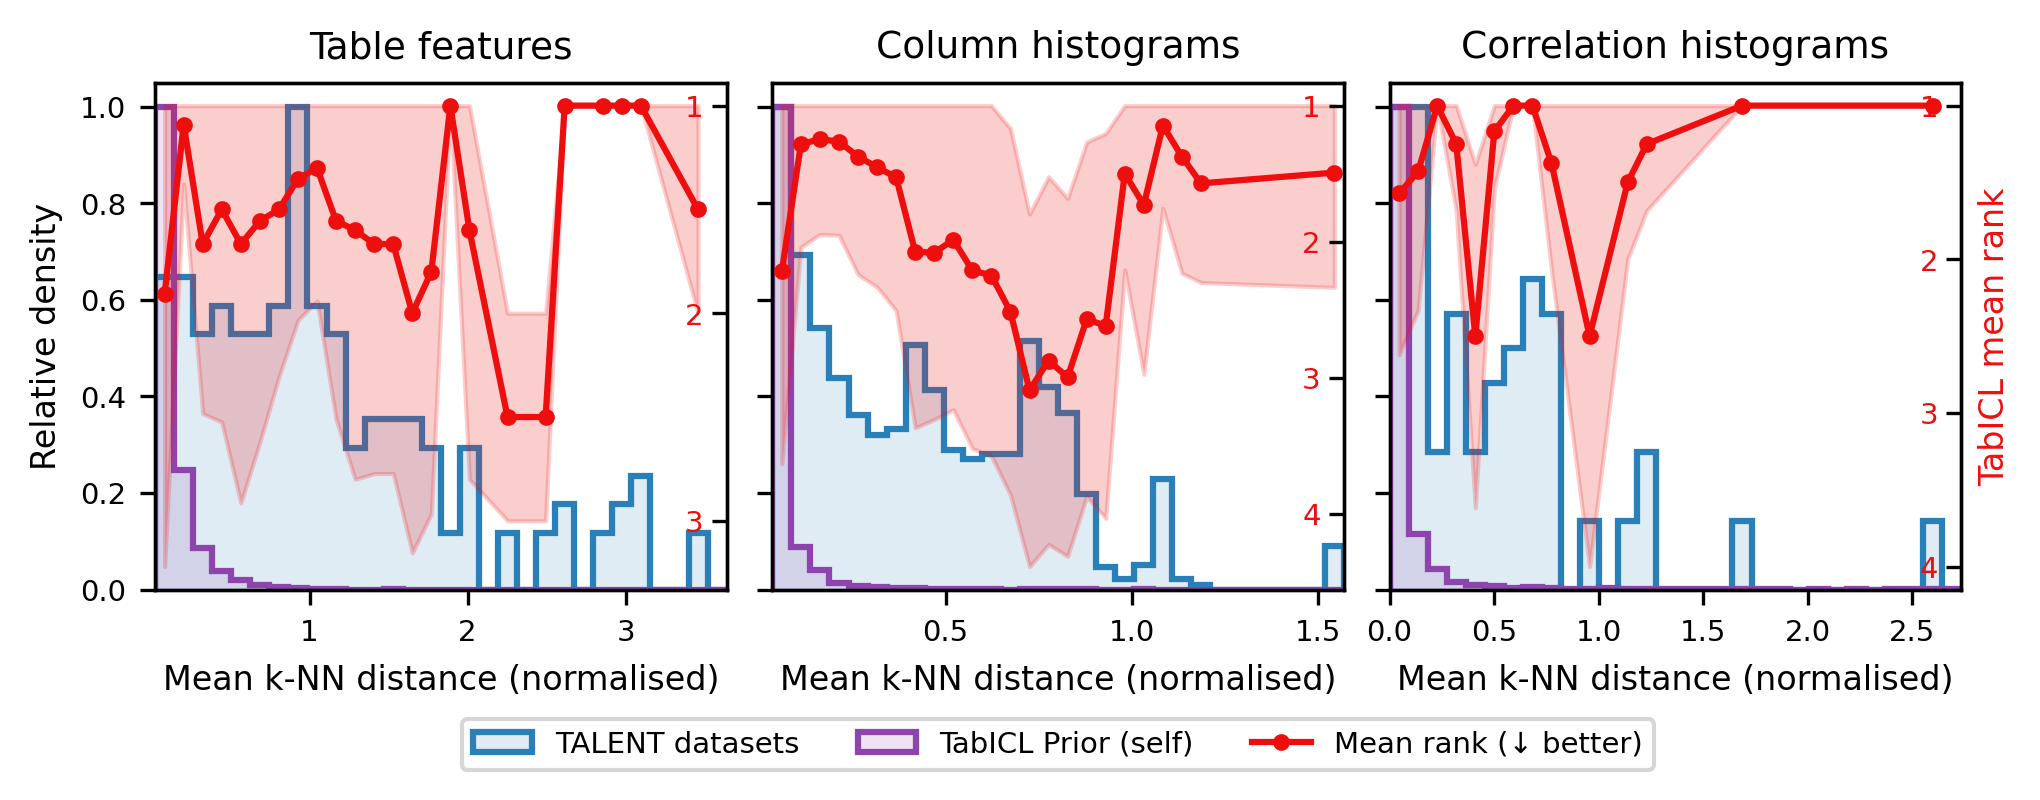
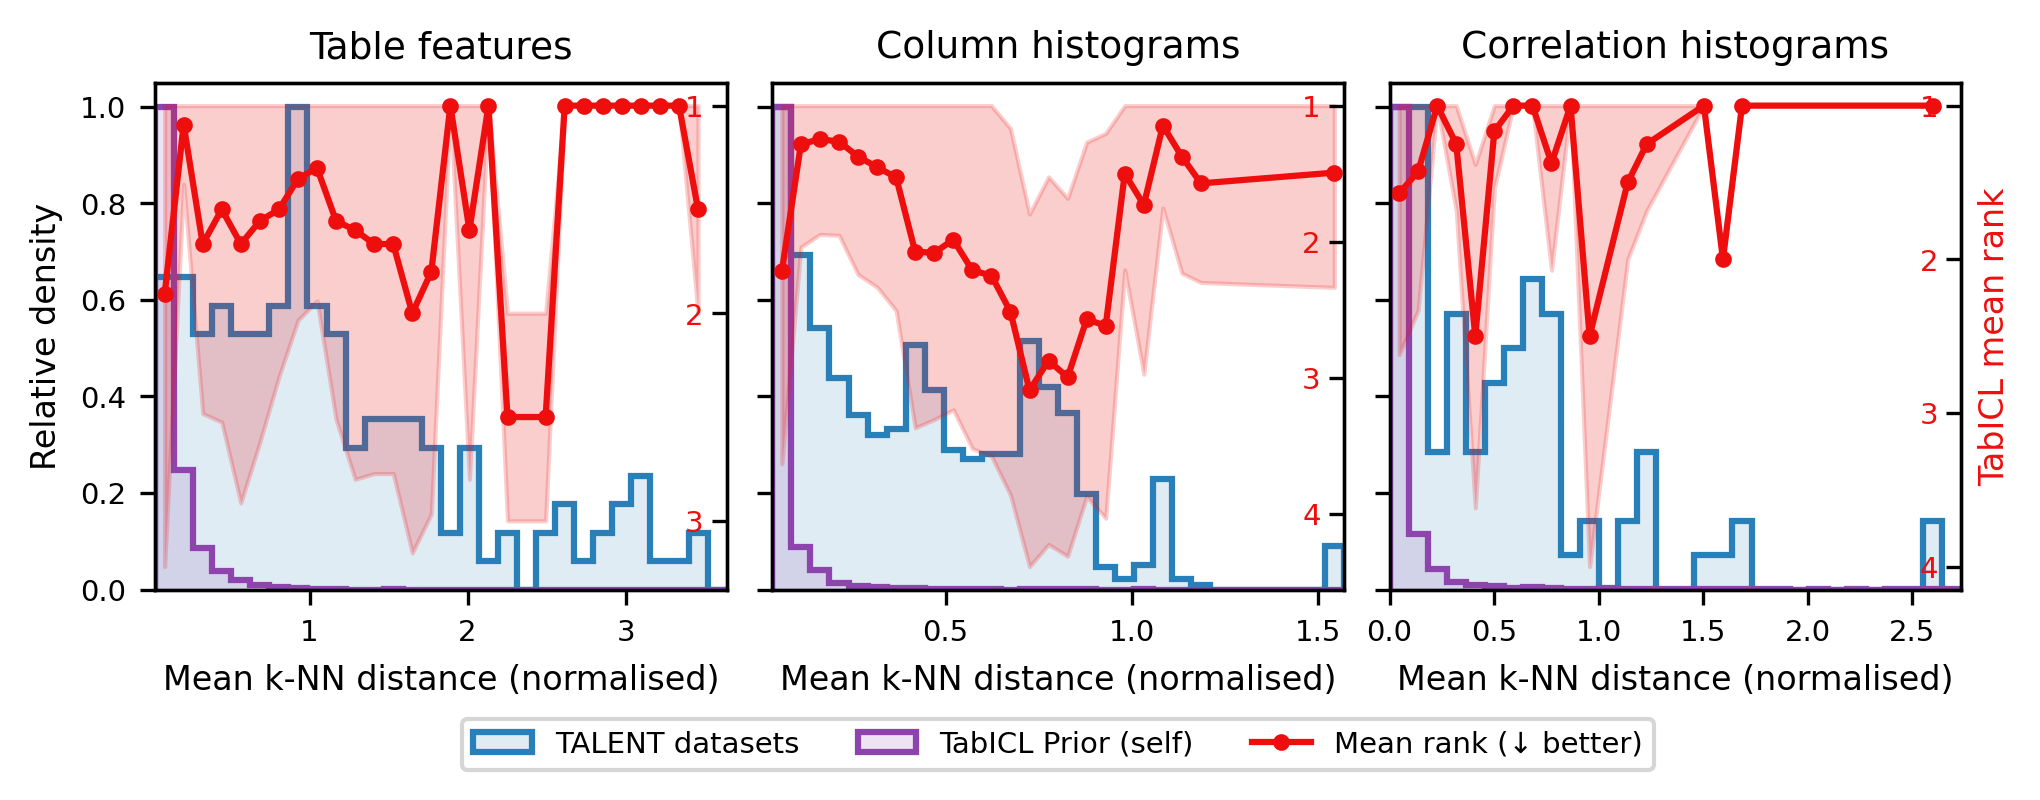
More formatting! And annotate correlation

diff --git a/analysis/rank_vs_coverage_combined.py b/analysis/rank_vs_coverage_combined.py
@@ -409,6 +409,12 @@ def plot_combined(panels: list[dict], output_path: Path, n_bins: int = 30) -> No
                             labelleft=False, labelright=True,
                             direction="in", pad=-10)
 
+            if mask.sum() >= 2:
+                r = np.corrcoef(bin_centers[mask], means[mask])[0, 1]
+                ax1.text(0.5, 0.03, f"$r = {r:.2f}$",
+                         transform=ax1.transAxes, va="bottom", ha="center",
+                         fontsize=7, color=_RED)
+
         # Single 3-column legend below all axes
         h_left, l_left = axes[0].get_legend_handles_labels()   # TALENT + self
         h_right = [right_axes[0].get_legend_handles_labels()[0][0]]
@@ -423,6 +429,12 @@ def plot_combined(panels: list[dict], output_path: Path, n_bins: int = 30) -> No
             frameon=True,
             borderaxespad=0.5,
         )
+
+        fig.canvas.draw()
+        for ax2 in right_axes:
+            for lbl in ax2.get_yticklabels():
+                lbl.set_bbox(dict(boxstyle="square,pad=0.15",
+                                  facecolor="white", edgecolor="none", alpha=0.85))
 
         output_path.parent.mkdir(parents=True, exist_ok=True)
         fig.savefig(output_path, dpi=300, bbox_inches="tight")
